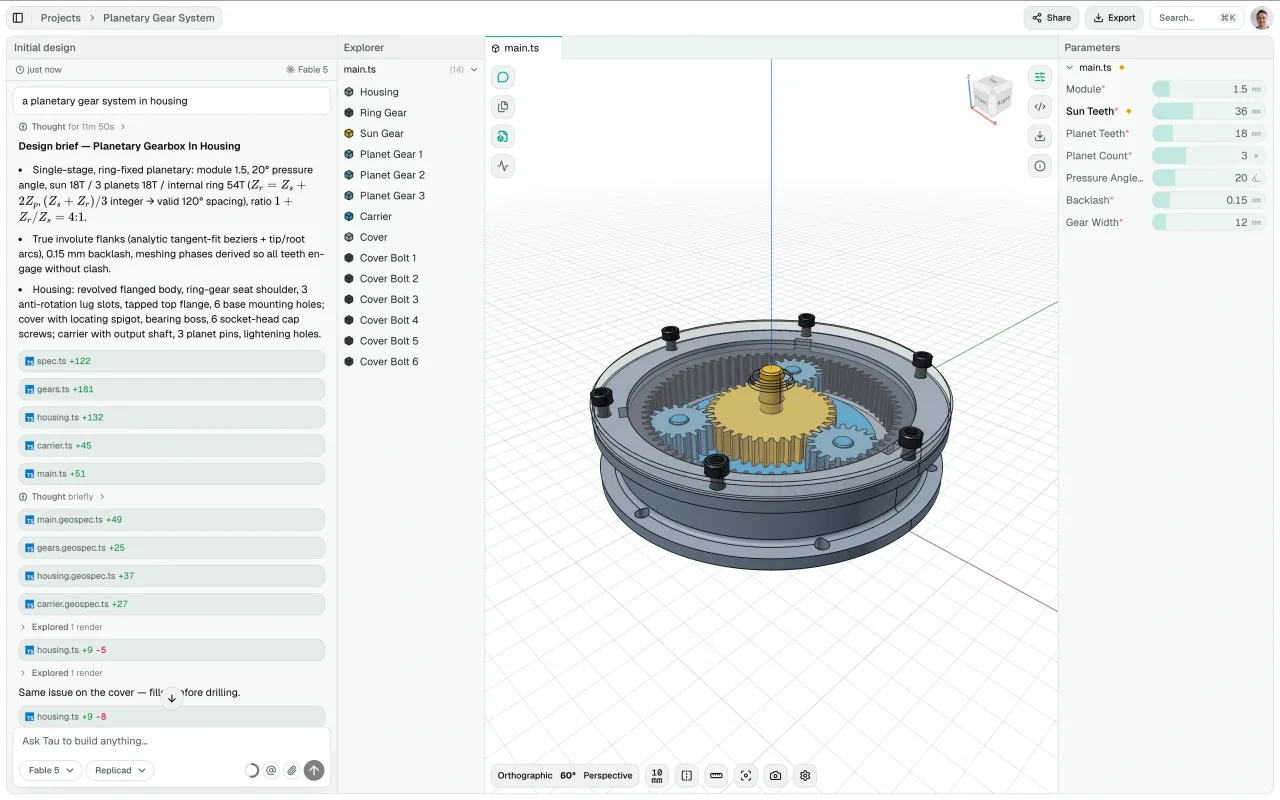
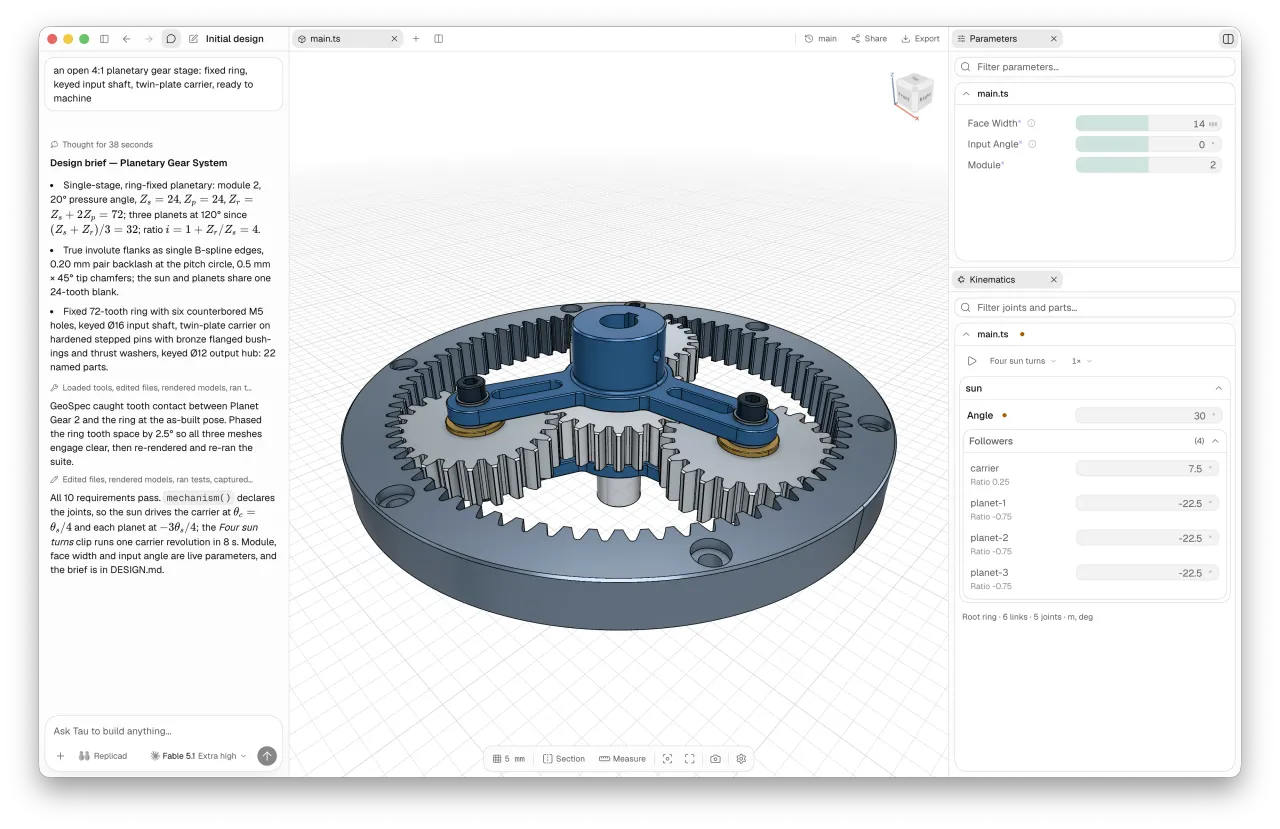
feat(www): Use the README desktop capture for the workspace figure (#412)
## Summary
The "Actual Tau workspace" figure on the marketing site (home product
band and `/product/`) now uses the same desktop capture as the README
hero (`docs/assets/tau-desktop-{light,dark}.webp`, from #397). That
capture is the macOS window with traffic lights and its native shadow.

- `optimize-assets.mjs` now sources `workspace` from
`docs/assets/tau-desktop-light.webp`, and a new `workspace-dark` entry
comes from the dark capture. Both are regenerated at 640 and 1280 widths
with the script's own sharp settings.
- The figure is now a `<picture>` whose `prefers-color-scheme: dark`
source serves the dark capture. Before, dark mode showed the light
screenshot.
- The CSS border and box-shadow are removed because the capture has its
own frame and shadow. Negative margins align the window itself, not its
transparent shadow, with the column and caption.

## Verification
- I previewed the figure with the real `site.css` in light and dark. The
window's left and right edges match the figcaption exactly (31 → 993 px
at 1024 wide), and there is no horizontal scroll.
- `oxfmt --check` is clean on the changed files. oxlint is clean on
`templates.mjs`. The `no-unsafe-call` errors in `optimize-assets.mjs`
also appear on main's copy, because sharp's types don't resolve in a
checkout without a full install.
- The local code review found 3 items: one is fixed (the CSS comment now
names the capture script); the other two need no change.
[…]

diff --git a/apps/www/src/site.css b/apps/www/src/site.css
@@ -1070,11 +1070,13 @@ main > .band:first-child::before {
   display: grid;
   gap: 1rem;
 }
+/* The capture carries its own macOS window frame and shadow; the negative margins align the window, not the
+   transparent shadow, with the column (window 3456 × 2160 inside a 3680 × 2384 image, inset 112 / 76 / 148 px).
+   Re-measure these if scripts/src/readme-hero-capture.ts re-shoots docs/assets/tau-desktop-*.webp at another size. */
 .workspace img {
-  width: 100%;
-  border: 1px solid var(--line);
-  border-radius: var(--radius-xl);
-  box-shadow: var(--shadow-md);
+  width: calc(100% * 3680 / 3456);
+  max-width: none;
+  margin: calc(-100% * 76 / 3456) calc(-100% * 112 / 3456) calc(-100% * 148 / 3456);
 }
 .workspace figcaption {
   display: flex;
@@ -1857,9 +1859,6 @@ main > .band:first-child::before {
   .case-image,
   .case-detail-image {
     background: oklch(0.94 0 none);
-  }
-  .workspace img {
-    color-scheme: light;
   }
   .plan.featured {
     background: color-mix(in oklch, var(--muted) 60%, transparent);
